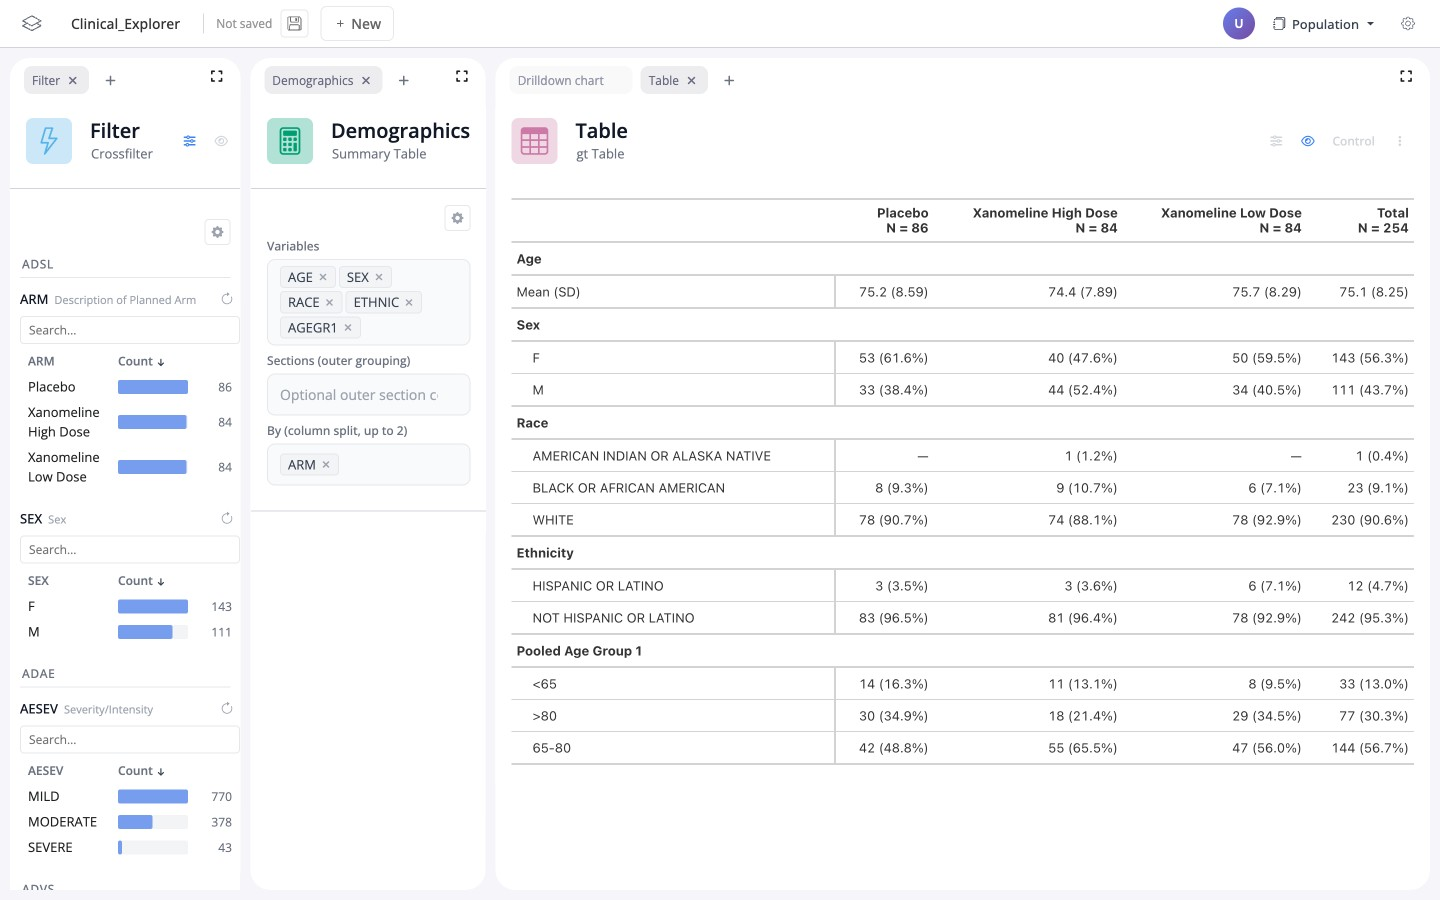
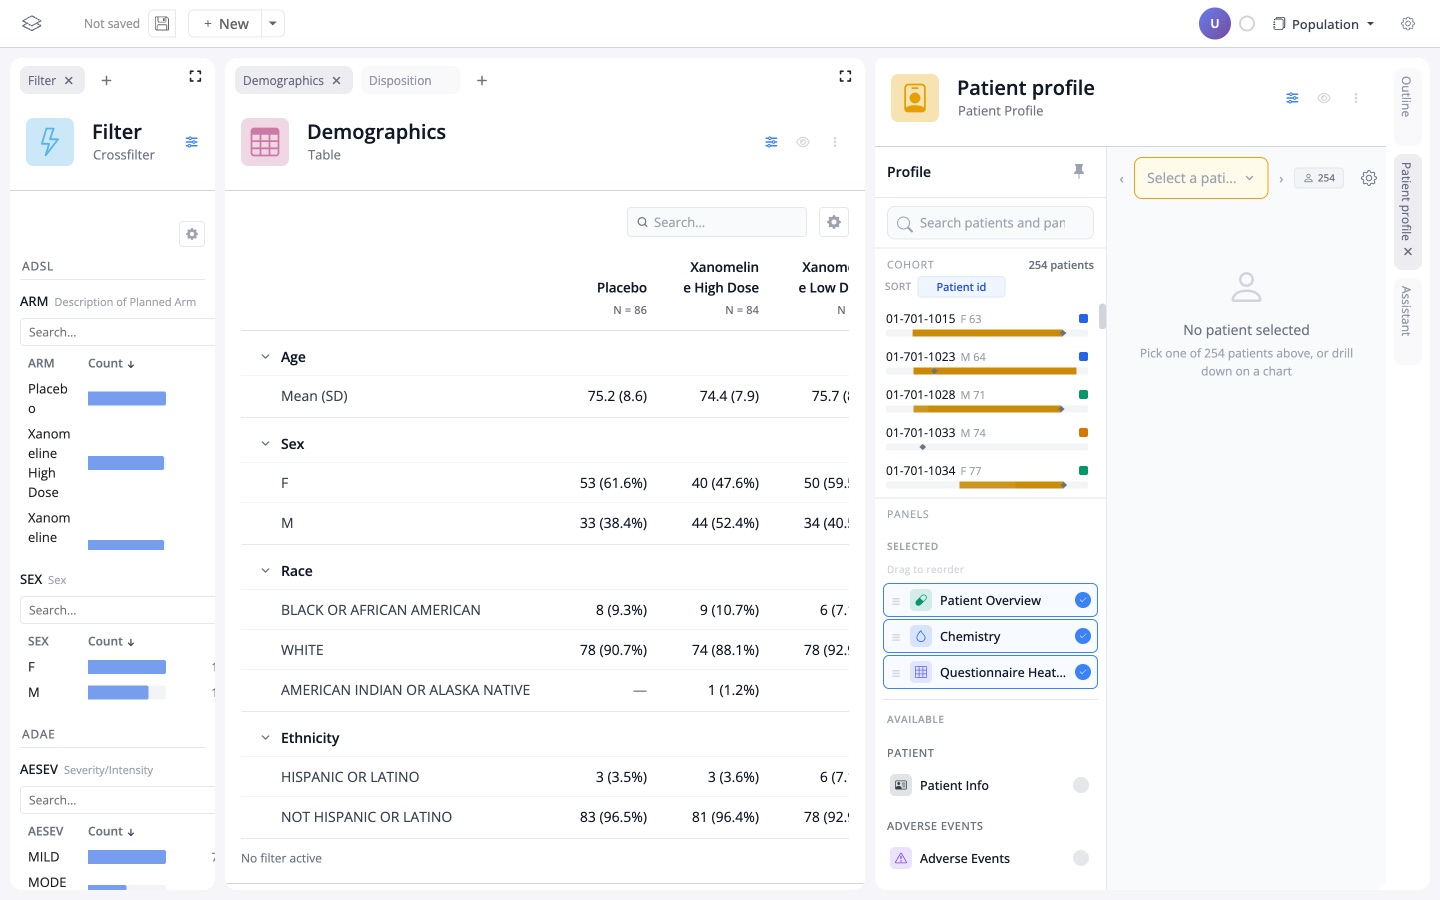
Clinical Explorer card: the rebuilt board
New screenshot and description for the five-view board, and blockr.outline
joins the install list the generator derives from the example source.

diff --git a/examples/index.md b/examples/index.md
@@ -37,7 +37,7 @@ Curated demo workflows running on [blockr.cloud](https://blockr.cloud). Open any
 <img src="/examples/clinical-explorer.jpg" alt="Clinical Explorer" />
 <div class="example-body">
 <p class="example-title">Clinical Explorer</p>
-<p>AI-enabled exploration of an ADaM trial: demographics, adverse events, lab values, vitals, and patient profile.</p>
+<p>AI-enabled exploration of an ADaM trial. One cross-filter drives five views: population and disposition, an adverse-event heatmap with a frequency chart and a swim-lane, and lab and vital-sign trajectories. The patient profile, the outline and the assistant ride a rail beside them.</p>
 <span class="example-link">Open in Playground →</span>
 </div>
 </a>
@@ -184,13 +184,14 @@ Nothing is preloaded and no data package is needed. Start either way: the datase
 
 ### Clinical Explorer
 
-AI-enabled exploration of an ADaM trial: demographics, adverse events, lab values, vitals, and patient profile.
+AI-enabled exploration of an ADaM trial. One cross-filter drives five views: population and disposition, an adverse-event heatmap with a frequency chart and a swim-lane, and lab and vital-sign trajectories. The patient profile, the outline and the assistant ride a rail beside them.
 
 First install blockr as described on the [Install](/install) page. Then add the extra packages:
 
 ```r
-pak::pak("BristolMyersSquibb/blockr.pharma")   # patient profile, swim-lane plot, the ADaM dm data block
-install.packages("safetyData")                 # ADaM example tables adsl/adae/adlbc/advs
+pak::pak("BristolMyersSquibb/blockr.pharma")   # patient profile, AE heatmap, the study roles option
+pak::pak("cynkra/blockr.outline")              # the outline rail
+install.packages("safetyData")
 ```
 
 Launch the demo:
@@ -199,7 +200,7 @@ Launch the demo:
 source(system.file("examples/clinical-explorer.R", package = "blockr.pharma"))
 ```
 
-This loads the ADaM tables from safetyData and the same blocks as the live demo: cross-filter, drilldown chart and table, patient profile and swim-lane plot. Open [`inst/examples/clinical-explorer.R`](https://github.com/BristolMyersSquibb/blockr.pharma/blob/main/inst/examples/clinical-explorer.R) on GitHub to see exactly what the script does.
+This loads the ADaM tables from safetyData and the same blocks as the live demo: the cross-filter, the AE heatmap and swim-lane, the summary tables, the lab and vital-sign trajectories, and the patient profile. Open [`inst/examples/clinical-explorer.R`](https://github.com/BristolMyersSquibb/blockr.pharma/blob/main/inst/examples/clinical-explorer.R) on GitHub to see exactly what the script does.
 
 ### Admiral SDTM → ADSL
 
@@ -420,6 +421,7 @@ source(system.file("examples/app-explorer.R", package = "blockr.portfolio"))
 Ticker data is fetched via quantmod (AAPL / MSFT / GOOG / AMZN by default), with a bundled offline fallback. Change the ticker or date selection and the explorer recomputes. Open [`inst/examples/app-explorer.R`](https://github.com/cynkra/blockr.portfolio/blob/main/inst/examples/app-explorer.R) on GitHub to see exactly what the script does.
 
 <!-- END generated -->
+
 
 
 
